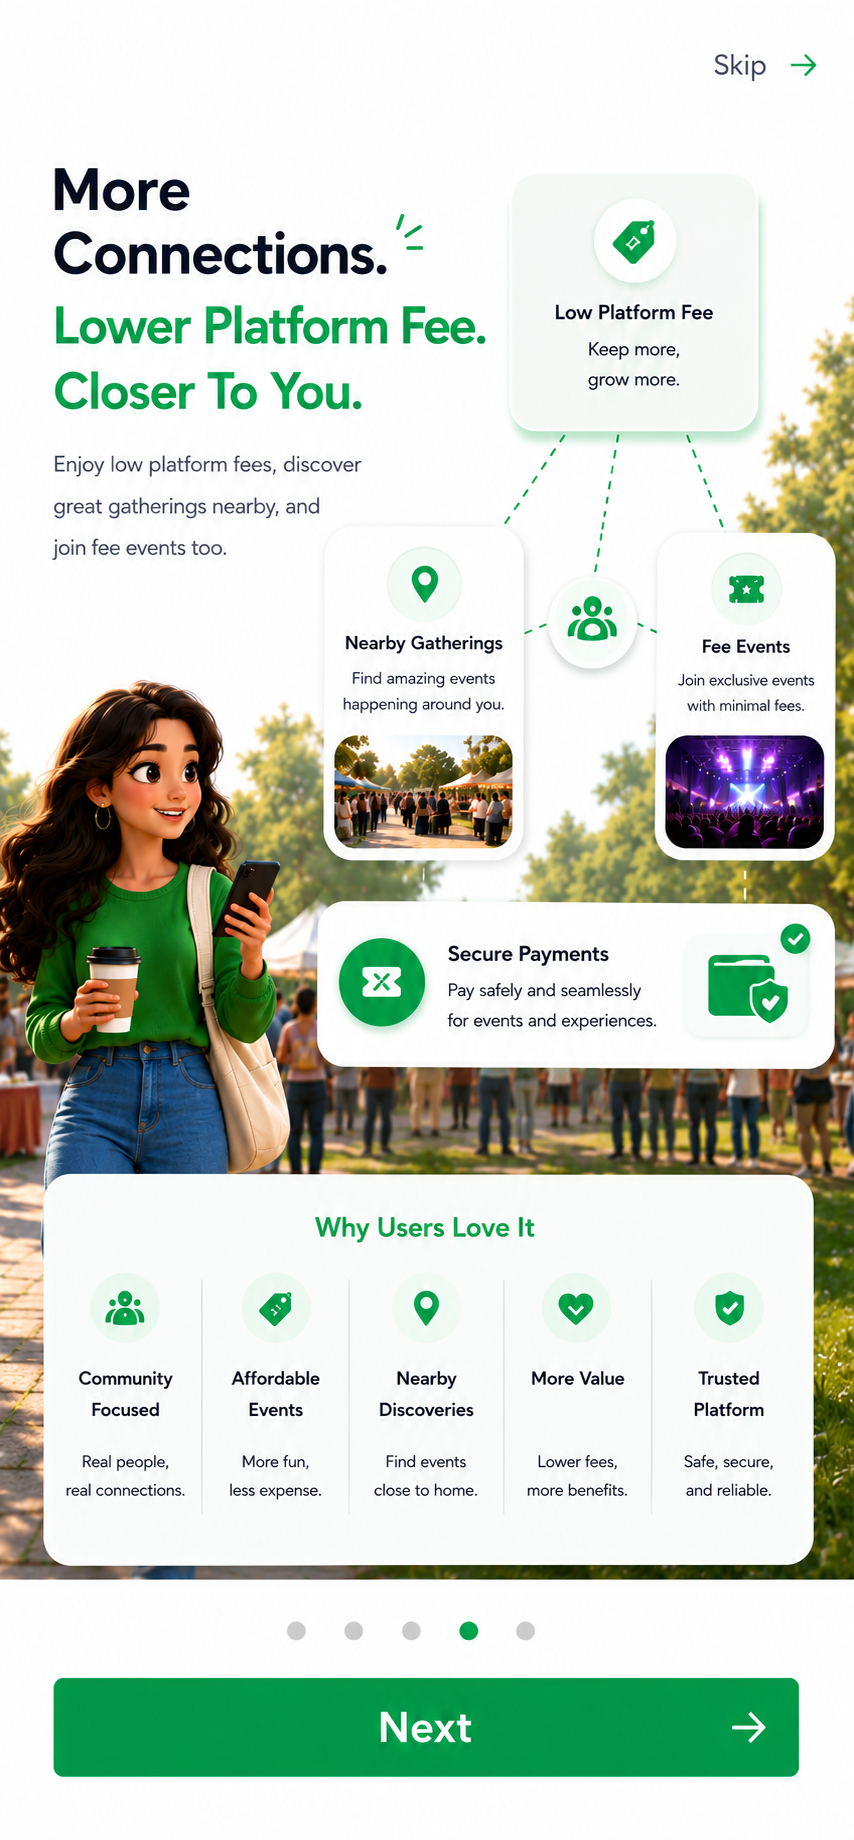
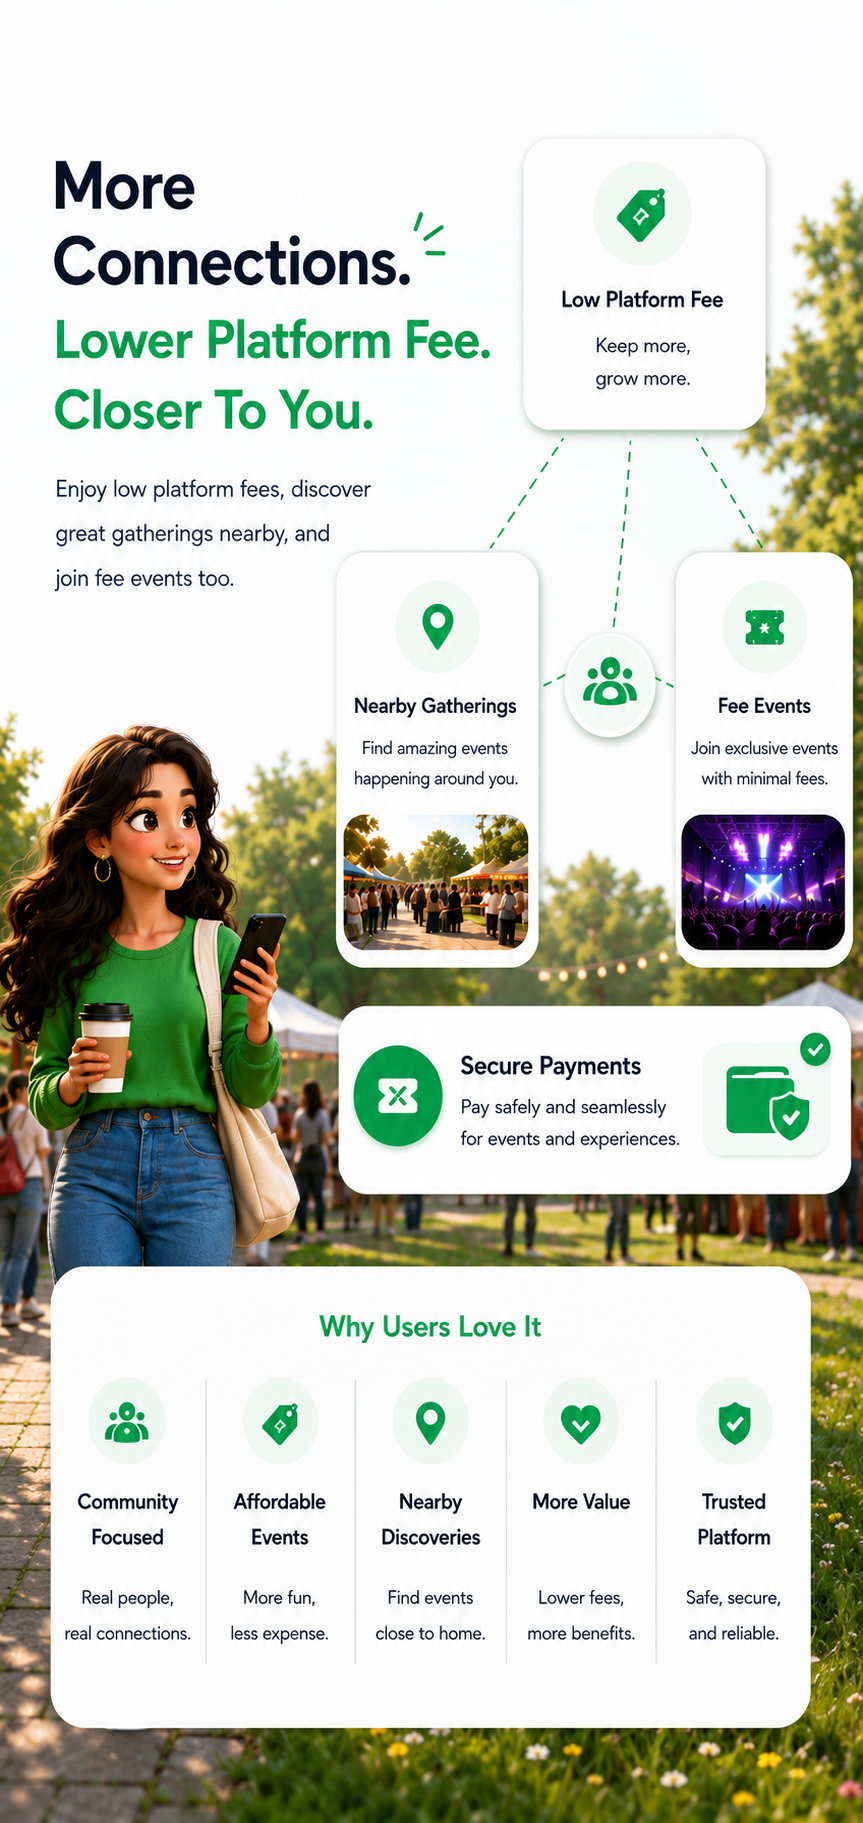
Update onboarding screens and assets

diff --git a/lib/features/onboarding1/screens/onboarding_screen.dart b/lib/features/onboarding1/screens/onboarding_screen.dart
@@ -43,12 +43,7 @@ class _OnboardingScreenState extends State<OnboardingScreen> {
       description:
           'Discover nearby gatherings, enjoy lower platform fees, and connect with your community.',
     ),
-    OnboardingModel(
-      image: 'assets/onboarding/onboarding_5.png',
-      title: 'Your Circle. Your Comfort. Your Privacy.',
-      description:
-          'Meet safely with trusted connections and privacy-focused experiences.',
-    ),
+    
   ];
 
   @override
@@ -117,7 +112,7 @@ class _OnboardingScreenState extends State<OnboardingScreen> {
                             alignment: Alignment.topRight,
                             child: Padding(
                               padding: EdgeInsets.only(
-                                top: isDesktop ? 24 : 34,
+                                top: isDesktop ? 24 : 16,
                                 right: 18,
                               ),
                               child: TextButton(

diff --git a/lib/features/auth/screens/login_screen.dart b/lib/features/auth/screens/login_screen.dart
@@ -304,7 +304,7 @@ class _LoginScreenState extends ConsumerState<LoginScreen> {
     Text(
       "Don't have an account? ",
       style: TheyDiTextStyles.bodySmall.copyWith(
-        fontSize: 16,
+        fontSize: 15,
       ),
     ),
     TextButton(
@@ -318,7 +318,7 @@ class _LoginScreenState extends ConsumerState<LoginScreen> {
         'Join TheyDi',
         style: TheyDiTextStyles.labelMedium.copyWith(
           color: TheyDiColors.primary,
-          fontSize: 18,
+          fontSize: 15,
           fontWeight: FontWeight.w600,
         ),
       ),
